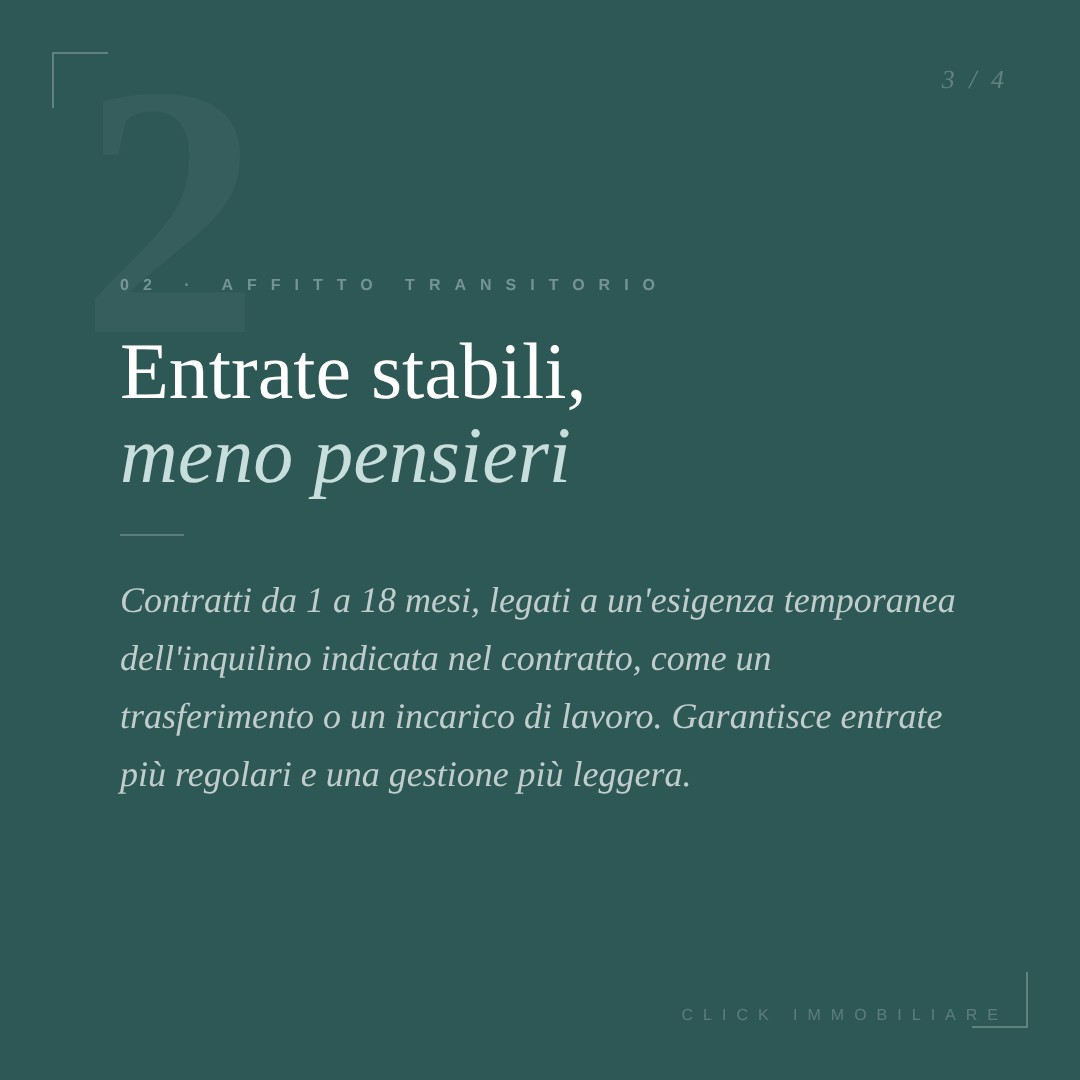
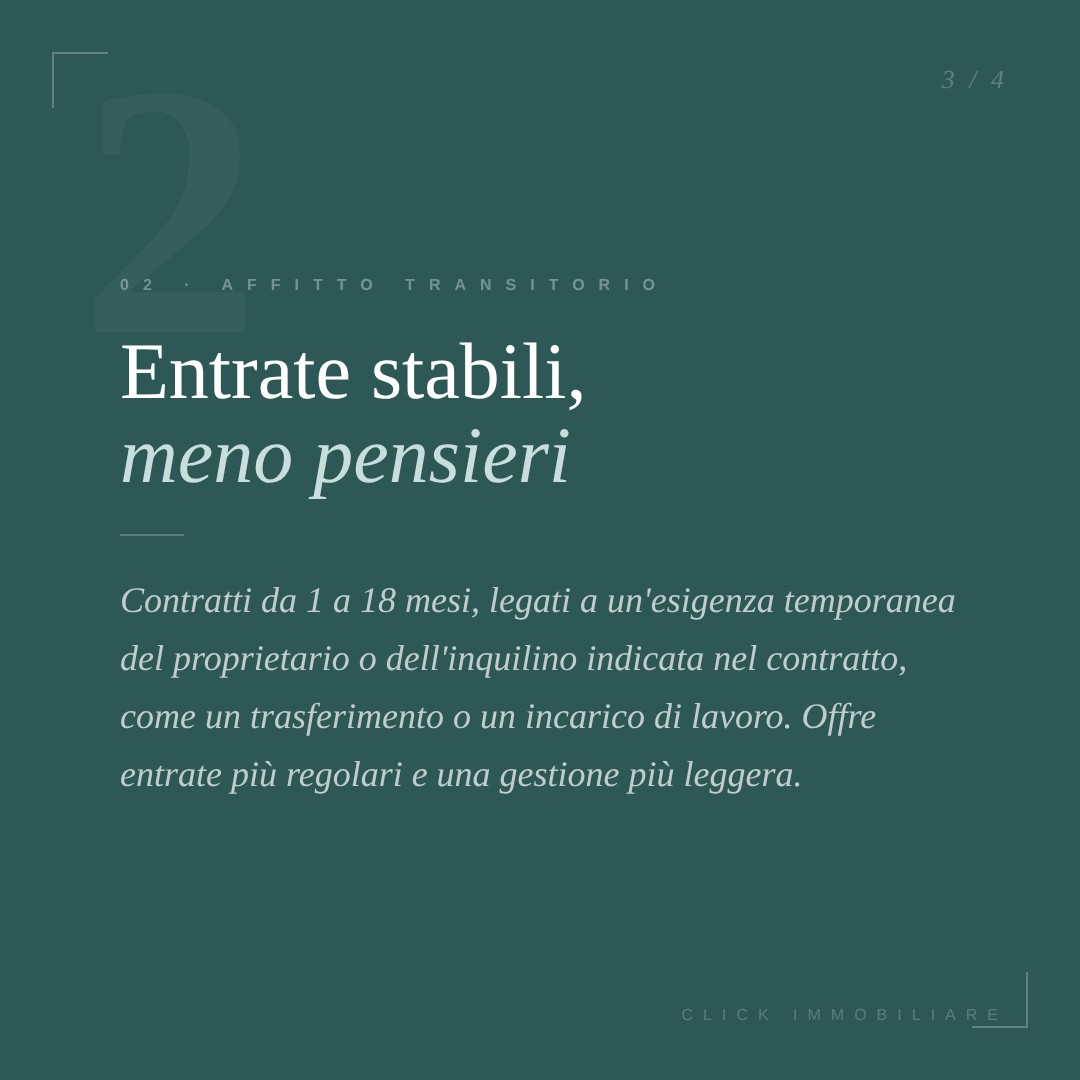
Regole del bot, calendario, temi usati e correzioni ai testi di novembre
Claude-Session: https://claude.ai/code/session_01LDa1zSpu8sfJksQtvcLFKV

Changed region(s): [[0.1222, 0.5806, 0.8861, 0.6722], [0.0917, 0.7028, 0.7333, 0.7333]]

diff --git a/blocchi/2026-11-05_grafiche.html b/blocchi/2026-11-05_grafiche.html
@@ -170,7 +170,7 @@
         <div class="tag">02 · Affitto transitorio</div>
         <div class="title">Entrate stabili,<br><em>meno pensieri</em></div>
         <div class="rule"></div>
-        <div class="body">Contratti da 1 a 18 mesi, legati a un'esigenza temporanea dell'inquilino indicata nel contratto, come un trasferimento o un incarico di lavoro. Garantisce entrate più regolari e una gestione più leggera.</div>
+        <div class="body">Contratti da 1 a 18 mesi, legati a un'esigenza temporanea del proprietario o dell'inquilino indicata nel contratto, come un trasferimento o un incarico di lavoro. Offre entrate più regolari e una gestione più leggera.</div>
       </div>
       <div class="slide-counter on-dark">3 / 4</div>
       <div class="brand-tag on-dark">Click Immobiliare</div>
@@ -205,7 +205,7 @@
         <div class="cover-eyebrow">Per i proprietari</div>
         <div class="cover-title">Affitto breve<em>in regola</em></div>
         <div class="rule"></div>
-        <div class="cover-sub">Gli obblighi da conoscere prima di accogliere il primo ospite.</div>
+        <div class="cover-sub">Alcuni adempimenti essenziali da conoscere prima di accogliere il primo ospite.</div>
       </div>
       <div class="list">
         <div class="list-head">Da non dimenticare</div>
@@ -223,7 +223,7 @@
         <div class="tag">01 · CIN</div>
         <div class="title">Il codice<br><em>identificativo nazionale</em></div>
         <div class="rule"></div>
-        <div class="body">Ogni appartamento affittato per brevi periodi deve avere il CIN. Il codice va indicato in tutti gli annunci online ed esposto all'esterno dell'edificio.</div>
+        <div class="body">Ogni appartamento affittato per brevi periodi deve avere il CIN. Il codice va indicato in ogni annuncio ed esposto all'esterno dell'edificio.</div>
       </div>
       <div class="slide-counter on-dark">2 / 4</div>
       <div class="brand-tag on-dark">Click Immobiliare</div>

diff --git a/bot/ISTRUZIONI.md b/bot/ISTRUZIONI.md
@@ -1,0 +1,77 @@
+# Istruzioni del bot Instagram di Click Immobiliare
+
+Questo file è la fonte unica delle regole. Ogni esecuzione del bot (automatica o in chat) lo legge per intero prima di fare qualsiasi cosa.
+
+## Account
+- Instagram: `clickimmobiliaresrl`, pubblicato tramite Metricool.
+- Metricool: brand id `7781544`, fuso orario `Europe/Rome`.
+- Immagini: archivio pubblico GitHub `clicksrl1/click-instagram`, link diretti nel formato
+  `https://raw.githubusercontent.com/clicksrl1/click-instagram/main/post/<cartella>/slideN.jpg`
+- Commit con autore `Click Immobiliare <clicksrl1@users.noreply.github.com>`, mai indirizzi email personali.
+
+## Schema di pubblicazione
+- 2 post a settimana: **lunedì e giovedì alle 10:00** (ora di Roma). Sono gli orari migliori indicati da Metricool.
+- Ciclo di 6 uscite che si ripete: **3 caroselli grafici**, poi **3 post con le foto di un appartamento** (lo stesso appartamento per tutti e 3).
+- Il calendario con lo stato di ogni uscita è in `calendario.md`. Va aggiornato a ogni modifica.
+
+## Esecuzione settimanale automatica
+1. Leggi `calendario.md` e controlla su Metricool (`getScheduledPosts`, prossime 3 settimane) cosa è già programmato. Non programmare mai due volte la stessa uscita.
+2. Se il prossimo blocco grafico non ancora programmato inizia entro 14 giorni, crealo e programmalo (vedi sotto).
+3. Se un blocco appartamento inizia entro 14 giorni e non è programmato, non inventare nulla: chiudi l'esecuzione con un messaggio chiaro per Nicholas che chiede le foto (vedi "Promemoria foto").
+4. Aggiungi le righe al calendario per mantenere sempre almeno 4 settimane di uscite pianificate.
+5. Fai commit e push di tutto, poi riassumi in 3-4 righe cosa è stato programmato e cosa serve da Nicholas.
+
+## Caroselli grafici
+- **Temi**: 3 temi nuovi, mai presenti in `temi-usati.md`. Bilancia proprietari e ospiti (circa metà e metà). Dopo l'uso aggiungi i temi a `temi-usati.md`.
+- **Tono**: professionale e formale, in italiano, frasi chiare. Niente slang, niente punti esclamativi a raffica.
+- **Struttura**: 4 slide per carosello. 1 copertina con grafica propria, 2 slide di contenuto, 1 slide finale con invito all'azione.
+- **Coerenza**: la copertina non deve promettere un numero di consigli diverso da quelli presenti. I contatori `k / 4` devono essere giusti (li controlla `render.py`).
+- **Grafica**: crea `blocchi/<data-prima-uscita>_grafiche.html` partendo da `blocchi/2026-11-05_grafiche.html`, che è il riferimento approvato. Usa `bot/stile.css` e le classi `cs-dark`, `cs-light`, `cl-dark`, `cl-light`. Alterna slide scure e chiare. Ogni copertina deve avere una grafica diversa dalle altre del blocco e dalle copertine recenti. Palette solo verde petrolio, crema e bianco.
+- **Cartelle**: ogni carosello ha `data-id="AAAA-MM-GG_tema-breve"`, uguale al nome della cartella in `post/`.
+- **Export**: `python3 bot/render.py blocchi/<file>.html post`. Deve terminare senza problemi; se ne segnala, correggi e ripeti.
+- **Controllo visivo obbligatorio**: crea un'immagine riassuntiva delle slide e guardala. Correggi testi tagliati, sovrapposizioni o refusi prima di pubblicare.
+- **Revisione indipendente obbligatoria**: prima di programmare, fai controllare slide e didascalie da un agente separato con il testo di `bot/revisione.md`. Correggi tutti gli ERRORI segnalati. Nessun post va su Metricool senza questa revisione.
+
+## Qualità
+Nicholas non accetta errori. I post devono essere pertinenti, intelligenti e sensati. Meglio un post più semplice e sicuro che uno ricco ma con un dato dubbio: nel dubbio, il dato si toglie.
+I blocchi si programmano con almeno 10 giorni di anticipo, così Nicholas ha tempo di vederli e fermarli. Il messaggio finale di ogni esecuzione elenca i post programmati con data, titolo e link al planner di Metricool.
+
+## Regole sui contenuti (non negoziabili)
+- **Mai recensioni, citazioni o testimonianze inventate.**
+- **Numeri dell'azienda**: si usano solo questi, forniti da Nicholas: 30+ appartamenti gestiti, 4.8 di media recensioni, 80% di tasso di occupazione, risposta media in 2 ore. Nessun'altra percentuale di guadagno, prezzo o statistica attribuita a Click Immobiliare.
+- **Norme e fisco**: scrivi solo regole di cui sei certo, in forma generale. Aliquote, scadenze e importi vanno verificati con una ricerca web nel giorno stesso; se non sei sicuro, ometti il dato.
+- **Eventi e date** (fiere, manifestazioni): citali solo dopo averli verificati con una ricerca web.
+- **Zona**: Milano, Rho e dintorni.
+- **Servizi**: si può dire che Click Immobiliare gestisce affitti brevi e locazioni di medio e lungo periodo, annunci, accoglienza, pulizie e adempimenti. Non promettere risultati garantiti.
+
+## Didascalie
+Salva ogni didascalia in `post/<cartella>/didascalia.txt`. Formato:
+1. Una riga di apertura con un'emoji pertinente e una domanda o affermazione forte.
+2. Due o tre paragrafi brevi che riprendono il contenuto delle slide con parole diverse.
+3. Invito all'azione con 📩 (DM o link in bio).
+4. Tre righe con un punto (`.`), poi 10-12 hashtag in minuscolo, sempre con `#clickimmobiliare` in fondo.
+
+## Programmazione su Metricool
+`createScheduledPost` con `blogId` `7781544`, `date` in formato ISO con `+01:00` (ora solare) o `+02:00` (ora legale), e `info` come questo esempio:
+```json
+{"autoPublish": true, "descendants": [], "draft": false, "firstCommentText": "", "hasNotReadNotes": false,
+ "media": ["<url slide1>", "<url slide2>", "<url slide3>", "<url slide4>"], "mediaAltText": [],
+ "providers": [{"network": "instagram"}],
+ "publicationDate": {"dateTime": "AAAA-MM-GGT10:00:00", "timezone": "Europe/Rome"},
+ "shortener": false, "smartLinkData": {"ids": []}, "text": "<didascalia>",
+ "instagramData": {"type": "POST", "collaborators": [], "carouselTags": {}, "showReelOnFeed": true}}
+```
+Prima di programmare, verifica che ogni link immagine risponda 200 dopo il push. Dopo, aggiorna `calendario.md` con stato `programmato` e l'id Metricool.
+
+## Post con le foto degli appartamenti
+- Le foto arrivano da Nicholas in chat. Salvale in `appartamenti/<slug-appartamento>/originali/`.
+- Se Nicholas non ha indicato zona e caratteristiche, chiedile prima di scrivere le didascalie. Non inventare metri quadri, prezzi, distanze o dotazioni non visibili nelle foto.
+- Prepara le immagini quadrate 1080x1080 (ritaglio centrato, JPEG qualità 90) in `post/<data>_<slug>-1/`, `-2/`, `-3/`.
+- Dividi le foto nei 3 post in modo sensato: 1) ambienti principali, 2) camere e bagni, 3) dettagli e atmosfera. Ogni post da 2 a 10 foto; con poche foto anche post da 1 foto vanno bene.
+- La prima foto di ciascun post è la più luminosa e ordinata del gruppo.
+- Didascalie nello stesso formato, con zona e caratteristiche fornite da Nicholas e invito a scrivere in DM per disponibilità.
+
+## Promemoria foto
+Quando serve un blocco appartamento, il messaggio finale dell'esecuzione deve dire:
+"Servono le foto di un appartamento per le uscite del <date>. Rispondi a questo messaggio allegando 8-12 foto dello stesso appartamento, più zona e 2-3 caratteristiche da citare: preparo e programmo io i 3 post."
+Quando Nicholas risponde con le foto nella stessa sessione, prepara il blocco appartamento seguendo la sezione dedicata, con revisione indipendente.

diff --git a/bot/revisione.md b/bot/revisione.md
@@ -1,0 +1,23 @@
+# Revisione indipendente
+
+Ogni blocco (grafico o appartamento) va controllato da un agente separato che non ha scritto i testi, prima di programmarlo su Metricool. Passagli questo testo, sostituendo le cartelle.
+
+---
+
+Sei un revisore indipendente e molto severo. Controlla questi post Instagram di Click Immobiliare Srl, società di property management che gestisce affitti brevi e locazioni di medio e lungo periodo a Milano, Rho e dintorni. Il titolare non accetta nessun errore. Pubblico: proprietari di immobili e ospiti italiani. Tono: professionale e formale.
+
+Cartelle da controllare: <elenco cartelle in post/>. Ogni cartella contiene slideN.jpg e didascalia.txt. Guarda ogni immagine con lo strumento Read. Non modificare nessun file.
+
+Controlla:
+1. Correttezza dei fatti, verificando con ricerche web su fonti ufficiali o affidabili ogni norma, scadenza, durata, aliquota, evento, data o collegamento citato. Segnala anche frasi imprecise, fuorvianti o rese false da un'omissione.
+2. Promesse eccessive, assoluti ("sempre", "tutti", "garantito"), numeri dell'azienda diversi da: 30+ appartamenti gestiti, 4.8 media recensioni, 80% occupazione, risposta media 2 ore. Recensioni o testimonianze inventate.
+3. Italiano: refusi, grammatica, punteggiatura, apostrofi, maiuscole, ripetizioni, frasi goffe.
+4. Coerenza tra copertina, slide, contatori k/N e didascalia; hashtag pertinenti.
+5. Pertinenza e buon senso per il pubblico; nulla che un esperto del settore troverebbe ingenuo o sbagliato.
+6. Impaginazione: testo tagliato, sovrapposto o illeggibile.
+
+Resoconto in italiano: per ogni post, elenco dei problemi con posizione, testo attuale, motivo (con fonte se è un fatto) e correzione proposta parola per parola. Distingui "ERRORE" da "MIGLIORAMENTO". Se un post è a posto scrivi "nessun errore".
+
+---
+
+Regola: tutti gli ERRORI vanno corretti, poi si rigenerano le slide e, se le modifiche toccano fatti, si ripete la revisione. Se un fatto resta in dubbio, si toglie dal post.

diff --git a/temi-usati.md b/temi-usati.md
@@ -1,0 +1,28 @@
+# Temi già usati
+
+Non ripetere questi temi. Aggiungi qui ogni nuovo tema subito dopo averlo programmato.
+
+## Post singoli pubblicati a ottobre 2026
+- Chi siamo: la tua casa a Milano senza pensieri
+- Perché sceglierci: gestione completa, rendimenti, trasparenza
+- Cosa dicono i nostri ospiti (recensioni)
+- Invito ai proprietari: metti a reddito il tuo spazio
+- I nostri numeri: 30+ appartamenti, 4.8 recensioni, 80% occupazione, risposta in 2 ore
+- 3 errori da non fare con l'affitto breve (prezzi fissi, foto scadenti, gestione fai-da-te)
+
+## Caroselli pubblicati a ottobre 2026
+- Tre cose da sapere per vivere Milano al meglio (metro, cultura oltre il Duomo)
+- Come gestiamo il tuo immobile (analisi, gestione)
+- Autogestione contro gestione professionale
+- Domande dei proprietari (guadagni, uso personale dell'appartamento)
+- Conoscere i quartieri di Milano (Brera, Navigli)
+- Quando il tuo immobile rende di più (Fashion Week, Salone del Mobile)
+
+## Caroselli programmati a novembre 2026
+- Soggiornare vicino a Fiera Milano Rho (ospiti in trasferta)
+- Affitto breve o transitorio (proprietari)
+- Affitto breve in regola: CIN, Alloggiati Web, imposta di soggiorno (proprietari)
+
+## Idee non ancora usate
+Ospiti: viaggiare per lavoro a Milano in appartamento invece che in hotel; soggiorni lunghi e corporate housing; cosa sapere per un soggiorno in appartamento; un weekend a Milano fuori dai percorsi classici; Rho e dintorni oltre la fiera.
+Proprietari: come preparare l'appartamento per gli ospiti; perché l'annuncio e le foto fanno la differenza; come funziona la tariffazione dinamica; pulizie e biancheria professionali; perché le recensioni contano; cura e manutenzione dell'immobile; cosa succede tra un ospite e l'altro.

diff --git a/calendario.md b/calendario.md
@@ -1,0 +1,22 @@
+# Calendario uscite Instagram
+
+Due uscite a settimana, lunedì e giovedì alle 10:00 (ora di Roma).
+Ciclo: 3 caroselli grafici, poi 3 post con le foto dello stesso appartamento.
+
+| Data | Tipo | Contenuto | Stato | Cartella · id Metricool |
+|---|---|---|---|---|
+| gio 05/11/2026 | grafica | Soggiornare vicino a Fiera Milano Rho | programmato | `2026-11-05_fiera-rho` · 412305178 |
+| lun 09/11/2026 | grafica | Affitto breve o transitorio | programmato | `2026-11-09_breve-o-transitorio` · 412305290 |
+| gio 12/11/2026 | grafica | Affitto breve in regola | programmato | `2026-11-12_affitto-breve-in-regola` · 412305403 |
+| lun 16/11/2026 | appartamento 1/3 | — | servono le foto | — |
+| gio 19/11/2026 | appartamento 2/3 | — | servono le foto | — |
+| lun 23/11/2026 | appartamento 3/3 | — | servono le foto | — |
+| gio 26/11/2026 | grafica | — | da creare | — |
+| lun 30/11/2026 | grafica | — | da creare | — |
+| gio 03/12/2026 | grafica | — | da creare | — |
+| lun 07/12/2026 | appartamento 1/3 | — | servono le foto | — |
+| gio 10/12/2026 | appartamento 2/3 | — | servono le foto | — |
+| lun 14/12/2026 | appartamento 3/3 | — | servono le foto | — |
+| gio 17/12/2026 | grafica | — | da creare | — |
+| lun 21/12/2026 | grafica | — | da creare | — |
+| gio 24/12/2026 | grafica | — | da creare | — |

diff --git a/README.md b/README.md
@@ -1,3 +1,9 @@
 # Click Immobiliare – Instagram
 
-Archivio delle immagini pubblicate su Instagram tramite Metricool.
+Archivio delle immagini pubblicate su Instagram tramite Metricool e regole del bot che le prepara.
+
+- `bot/ISTRUZIONI.md`: regole di contenuto, grafica e pubblicazione
+- `bot/revisione.md`: controllo indipendente prima di ogni pubblicazione
+- `calendario.md`: uscite programmate e da preparare
+- `temi-usati.md`: temi già trattati
+- `post/`: immagini e didascalie di ogni post
